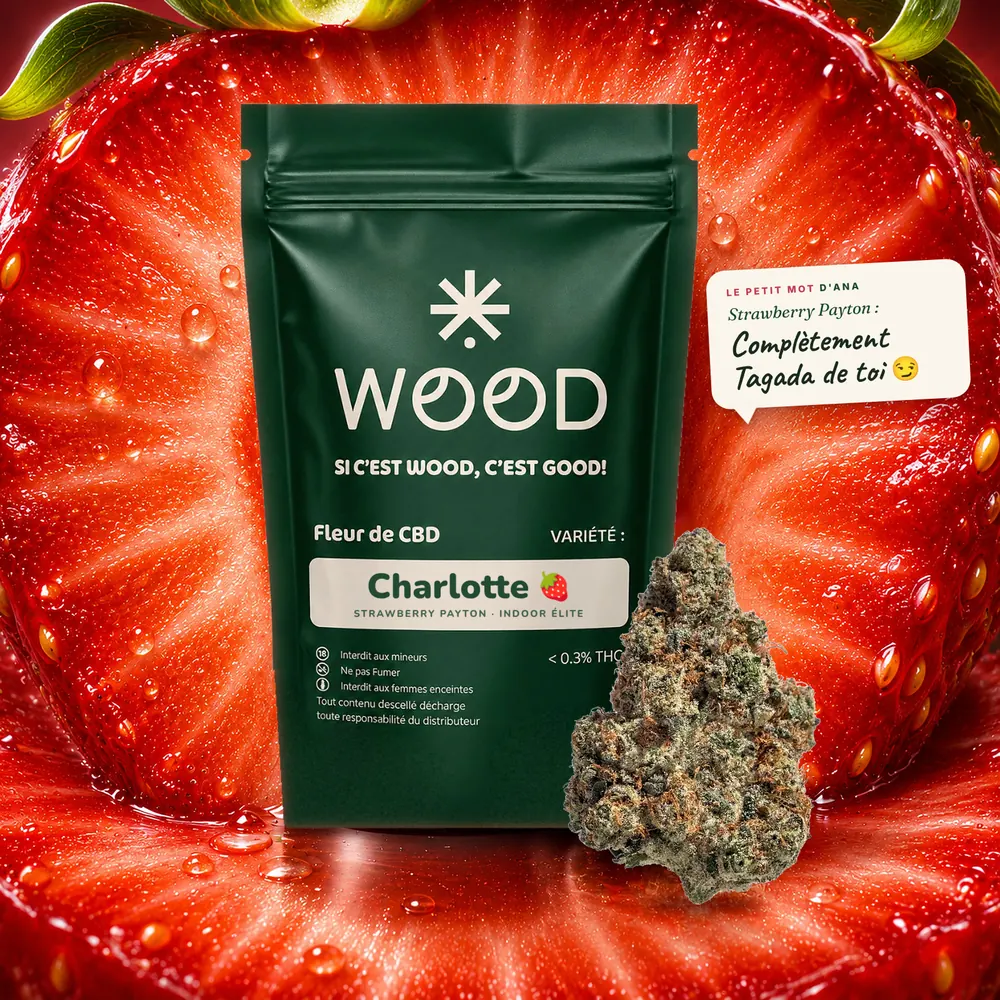
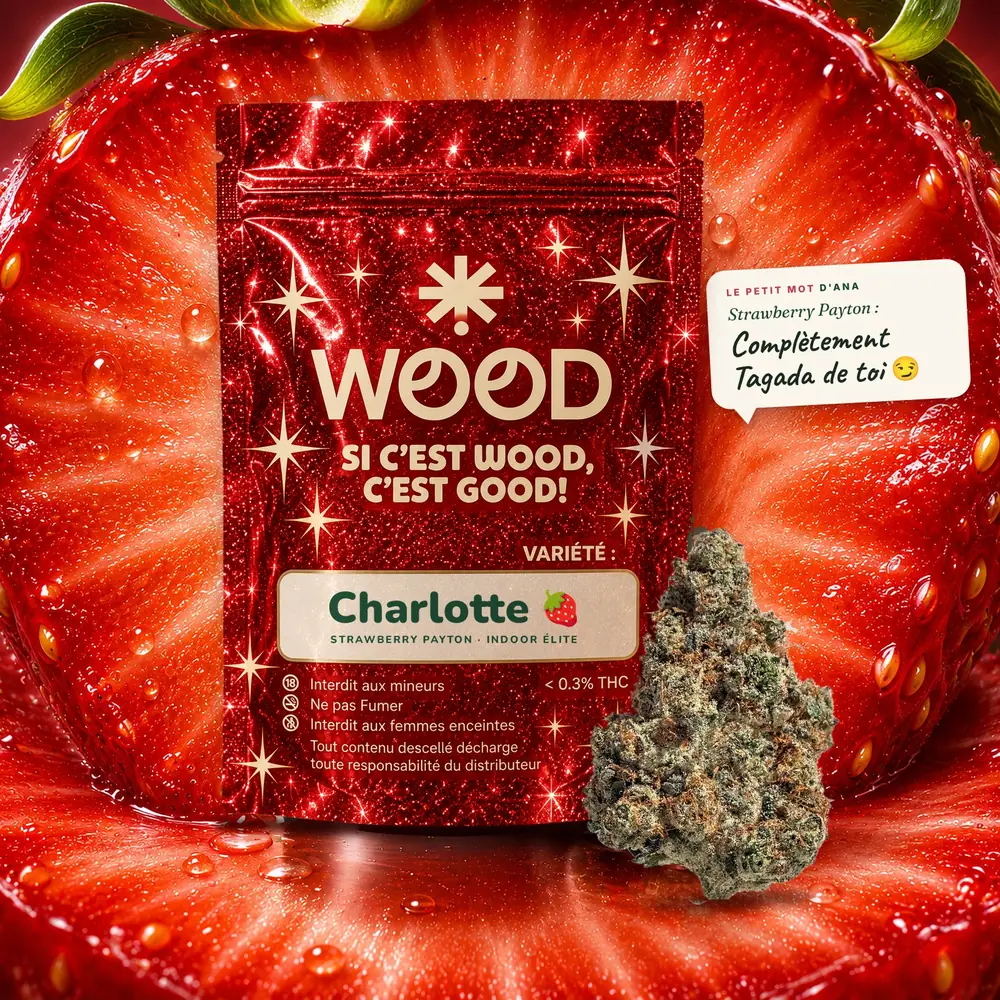
Charlotte et Venom au nouveau pochon à paillettes
Seul le pochon change sur les deux visuels (fleur, décor, bulle d'Ana et texte
Variété identiques) ; sur la Charlotte, la fleur glisse de 30 px pour qu'on lise
« < 0.3% THC » en entier. Images en WebP q72, anciennes archivées hors du dépôt.
IMGV v7, app.js?v=113.

Claude-Session: https://claude.ai/code/session_013qN9ZBm4251zgCjvdQLUcg

diff --git a/cbd-claude/produit.html b/cbd-claude/produit.html
@@ -21,7 +21,7 @@
    requête inutile). Même adresse exacte que app.js (IMGV), sinon l'image
    serait téléchargée deux fois. Liste et version tenues par
    wood-api/tools/test-site-prechargement.py (comparées au rendu réel). */
-(function(){var AVEC=["charlotte","venom"],V="?v=6";
+(function(){var AVEC=["charlotte","venom"],V="?v=7";
 try{var s=new URLSearchParams(location.search).get("f");
 if(s&&AVEC.indexOf(s)>=0){var l=document.createElement("link");l.rel="preload";l.as="image";
 l.href="assets/products/"+s+".webp"+V;l.setAttribute("fetchpriority","high");document.head.appendChild(l);}}catch(e){}})();</script>
@@ -43,6 +43,6 @@ l.href="assets/products/"+s+".webp"+V;l.setAttribute("fetchpriority","high");doc
 <div data-chrome="advisor"></div>
 <nav data-chrome="botnav"></nav>
 <script src="api.js?v=6"></script>
-<script src="app.js?v=112"></script>
+<script src="app.js?v=113"></script>
 </body>
 </html>

diff --git a/cbd-claude/app.js b/cbd-claude/app.js
@@ -3,7 +3,7 @@
    Données fleurs RÉELLES (prix proprio). Profils = goût, jamais d'effet.
    =========================================================== */
 
-const IMGV = "?v=6"; /* cache-buster images (bump si régénération) — v6 le 25/11 : charlotte.webp remplacé (visuel IA de démo → vrai pochon) */
+const IMGV = "?v=7"; /* cache-buster images (bump si régénération) — v6 le 25/11 : charlotte.webp remplacé (visuel IA de démo → vrai pochon) ; v7 le 26/11 : charlotte + venom au pochon à paillettes */
 
 /* L'API est-elle branchée ? Si api.js n'a pas chargé, on ne plante pas :
    le site garde son comportement hors-ligne. */

diff --git a/cbd-claude/404.html b/cbd-claude/404.html
@@ -33,6 +33,6 @@
 </main>
 <footer data-chrome="footer"></footer><div data-chrome="advisor"></div><nav data-chrome="botnav"></nav>
 <script src="api.js?v=6"></script>
-<script src="app.js?v=112"></script>
+<script src="app.js?v=113"></script>
 </body>
 </html>

diff --git a/cbd-claude/bientot.html b/cbd-claude/bientot.html
@@ -28,6 +28,6 @@
 </main>
 <footer data-chrome="footer"></footer><div data-chrome="advisor"></div><nav data-chrome="botnav"></nav>
 <script src="api.js?v=6"></script>
-<script src="app.js?v=112"></script>
+<script src="app.js?v=113"></script>
 </body>
 </html>

diff --git a/cbd-claude/cgv.html b/cbd-claude/cgv.html
@@ -59,6 +59,6 @@
 </main>
 <footer data-chrome="footer"></footer><div data-chrome="advisor"></div><nav data-chrome="botnav"></nav>
 <script src="api.js?v=6"></script>
-<script src="app.js?v=112"></script>
+<script src="app.js?v=113"></script>
 </body>
 </html>

diff --git a/cbd-claude/confidentialite.html b/cbd-claude/confidentialite.html
@@ -51,6 +51,6 @@
 </main>
 <footer data-chrome="footer"></footer><div data-chrome="advisor"></div><nav data-chrome="botnav"></nav>
 <script src="api.js?v=6"></script>
-<script src="app.js?v=112"></script>
+<script src="app.js?v=113"></script>
 </body>
 </html>

diff --git a/cbd-claude/contact.html b/cbd-claude/contact.html
@@ -40,6 +40,6 @@
 </main>
 <footer data-chrome="footer"></footer><div data-chrome="advisor"></div><nav data-chrome="botnav"></nav>
 <script src="api.js?v=6"></script>
-<script src="app.js?v=112"></script>
+<script src="app.js?v=113"></script>
 </body>
 </html>

diff --git a/cbd-claude/faq.html b/cbd-claude/faq.html
@@ -56,6 +56,6 @@
 </main>
 <footer data-chrome="footer"></footer><div data-chrome="advisor"></div><nav data-chrome="botnav"></nav>
 <script src="api.js?v=6"></script>
-<script src="app.js?v=112"></script>
+<script src="app.js?v=113"></script>
 </body>
 </html>

diff --git a/cbd-claude/mentions-legales.html b/cbd-claude/mentions-legales.html
@@ -46,6 +46,6 @@
 </main>
 <footer data-chrome="footer"></footer><div data-chrome="advisor"></div><nav data-chrome="botnav"></nav>
 <script src="api.js?v=6"></script>
-<script src="app.js?v=112"></script>
+<script src="app.js?v=113"></script>
 </body>
 </html>

diff --git a/cbd-claude/barla.html b/cbd-claude/barla.html
@@ -95,6 +95,6 @@
 
 <footer data-chrome="footer"></footer><div data-chrome="advisor"></div><nav data-chrome="botnav"></nav>
 <script src="api.js?v=6"></script>
-<script src="app.js?v=112"></script>
+<script src="app.js?v=113"></script>
 </body>
 </html>

diff --git a/cbd-claude/borriglione.html b/cbd-claude/borriglione.html
@@ -95,6 +95,6 @@
 
 <footer data-chrome="footer"></footer><div data-chrome="advisor"></div><nav data-chrome="botnav"></nav>
 <script src="api.js?v=6"></script>
-<script src="app.js?v=112"></script>
+<script src="app.js?v=113"></script>
 </body>
 </html>

diff --git a/cbd-claude/checkout.html b/cbd-claude/checkout.html
@@ -30,6 +30,6 @@
 <div data-chrome="advisor"></div>
 <nav data-chrome="botnav"></nav>
 <script src="api.js?v=6"></script>
-<script src="app.js?v=112"></script>
+<script src="app.js?v=113"></script>
 </body>
 </html>
